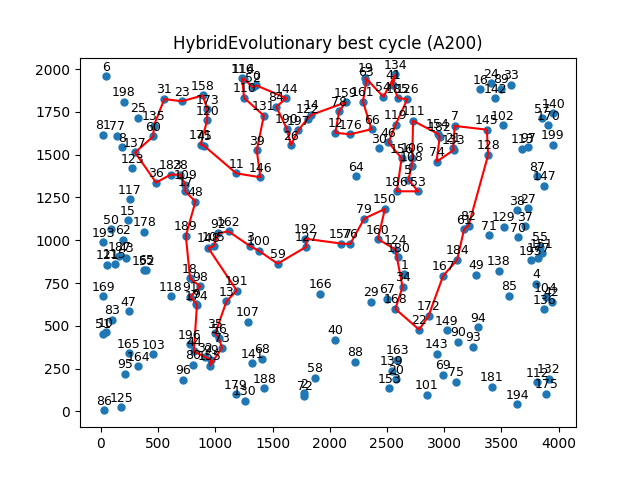
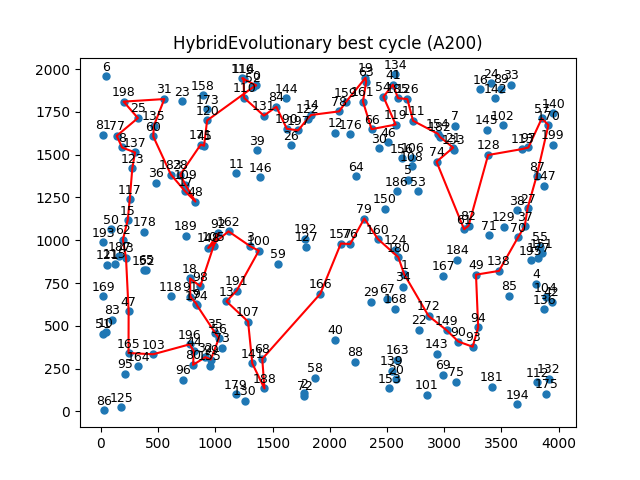
Need to implement recombination

diff --git a/aem/heuristics/lab5/hybrid_evolutionary.py b/aem/heuristics/lab5/hybrid_evolutionary.py
@@ -1,4 +1,5 @@
 import time
+from collections import defaultdict
 
 from aem.heuristics.alter.action import SwapInnerNodes
 from aem.heuristics.greedy import Greedy
@@ -14,46 +15,45 @@ class HybridEvolutionary(SteepestEdgeSwapListOfMoves, Greedy):
         super().__init__(*args, **kwargs)
 
     def run_experiment(self, start_population, time_limit=1):
+        population = np.array(start_population)
         self.reset()
         start_time = time.time()
         best_cycle = None
-        best_cycle_length = None
         generations = 0
         while time.time()-start_time < time_limit:
             generations += 1
-        #    self.reset()
+            # wylosuj dwa różne rozwiązania z rozk. równomiernego
+            two_random = np.random.choice(population[:,0], 2, replace=False)
+            parent_a = two_random[0]
+            parent_b = two_random[1]
+            # rekombinacja
+            y = self.recombine(parent_a, parent_b)
+            # local search
             improved = True
             while improved:
-                cycle, improved = self.alter_cycle(cycle)
+                y, improved = self.alter_cycle(y)
+            # jeżeli y jest lepsze od najgorszego i rozne od wszystkich w pop
+            # dodaj y do pop i usun najgorsze
+            worst_in_pop_idx = np.argmin(population[:,1])
+            worst_in_pop = population[worst_in_pop_idx]
+            y_fitness = self.graph.compute_cycle_length(y)
+            if y_fitness < worst_in_pop[1]:
+                population[worst_in_pop_idx] = np.array((y, y_fitness))
 
+        return population[np.argmin(population[:,1])][0],generations
 
-            new_cycle_length = self.graph.compute_cycle_length(cycle)
-            if best_cycle_length is None or best_cycle_length > new_cycle_length:
-                best_cycle_length = new_cycle_length
-                best_cycle = cycle.copy()
+    def recombine(self, parent_a, parent_b):
+        return parent_a
 
-            # Perturbation
-            for _ in range(5):
-                a = np.random.randint(len(cycle))
-                b = np.random.randint(len(cycle))
-                while b == a:
-                    b = np.random.randint(len(cycle))
-                a = cycle[a]
-                b = cycle[b]
-                action = SwapInnerNodes(a,b)
-                cycle = action.alter(cycle, self.graph, False)
-                self.add_new_moves(action, cycle)
-                # cycle[a],cycle[b] = cycle[b], cycle[a]
-
-        return best_cycle,generations
     def run(self, seed=None, time_limit=1, population_size=20, number_of_experiments=1) -> ExperimentResult:
         if seed:
             np.random.seed(seed)
-        start_populations = []
+        start_populations = defaultdict(list)
         for i in range(number_of_experiments):
-            chromosome = Random(self.graph).build_cycle(np.random.randint(self.graph.no_of_vertices()))
-            fitness = self.graph.compute_cycle_length(chromosome)
-            start_populations.append((chromosome, fitness))
+            for _ in range(population_size):
+                chromosome = Random(self.graph).build_cycle(np.random.randint(self.graph.no_of_vertices()))
+                fitness = self.graph.compute_cycle_length(chromosome)
+                start_populations[i].append((chromosome, fitness))
 
         cycles = []
         generations_number = []

diff --git a/main_lab5.py b/main_lab5.py
@@ -1,10 +1,6 @@
 from pandas import DataFrame
 
-from aem.heuristics.lab3.steepest_edge_swap import SteepestEdgeSwap
-from aem.heuristics.lab3.steepest_edge_swap_candidate import SteepestEdgeSwapCandidate
-from aem.heuristics.lab3.steepest_edge_swap_lom import SteepestEdgeSwapListOfMoves
-from aem.heuristics.lab4.MultipleStartLocalSearch import MultipleStartLocalSearch
-from aem.heuristics.lab5.IterateLocalSearchPeturbiation import HybridEvolutionary
+from aem.heuristics.lab5.hybrid_evolutionary import HybridEvolutionary
 from aem.utils.plot_util import PlotUtil
 from aem.utils.tsp_reader import TSPReader
 
@@ -21,7 +17,7 @@ for instance in instances:
 
     methods = [HybridEvolutionary(graph)]
     for method in methods:
-        result = method.run(seed=13, time_limit=33.5, population_size=20, number_of_experiments=1)
+        result = method.run(seed=13, time_limit=1, population_size=20, number_of_experiments=1)
         results[result.method_classname] = [result.average, result.min, result.max, result.time_average,
                                             result.time_min, result.time_max]
         result.print()
